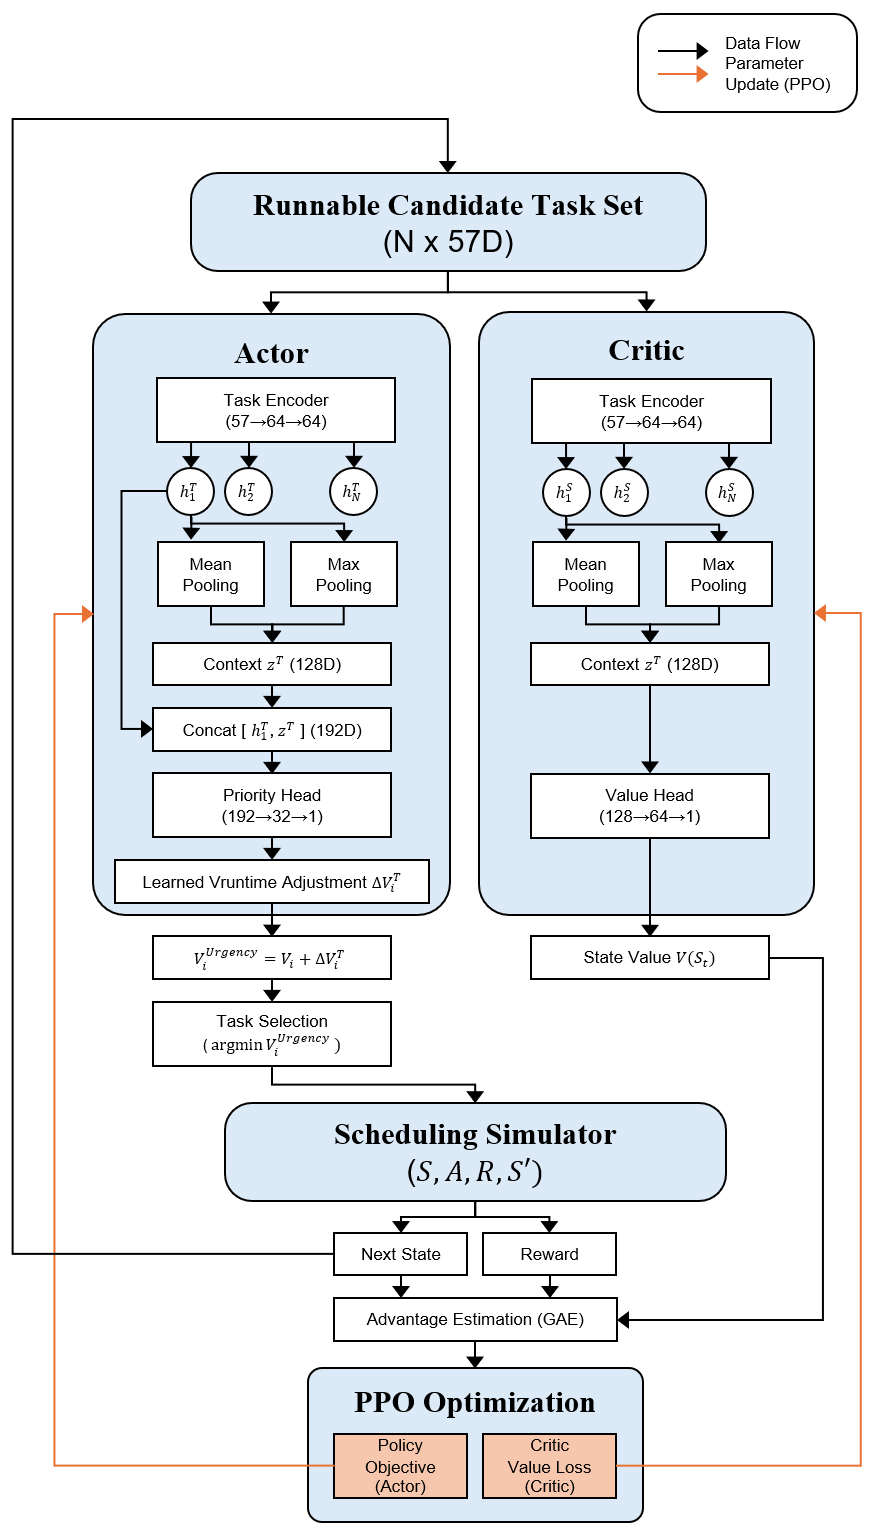
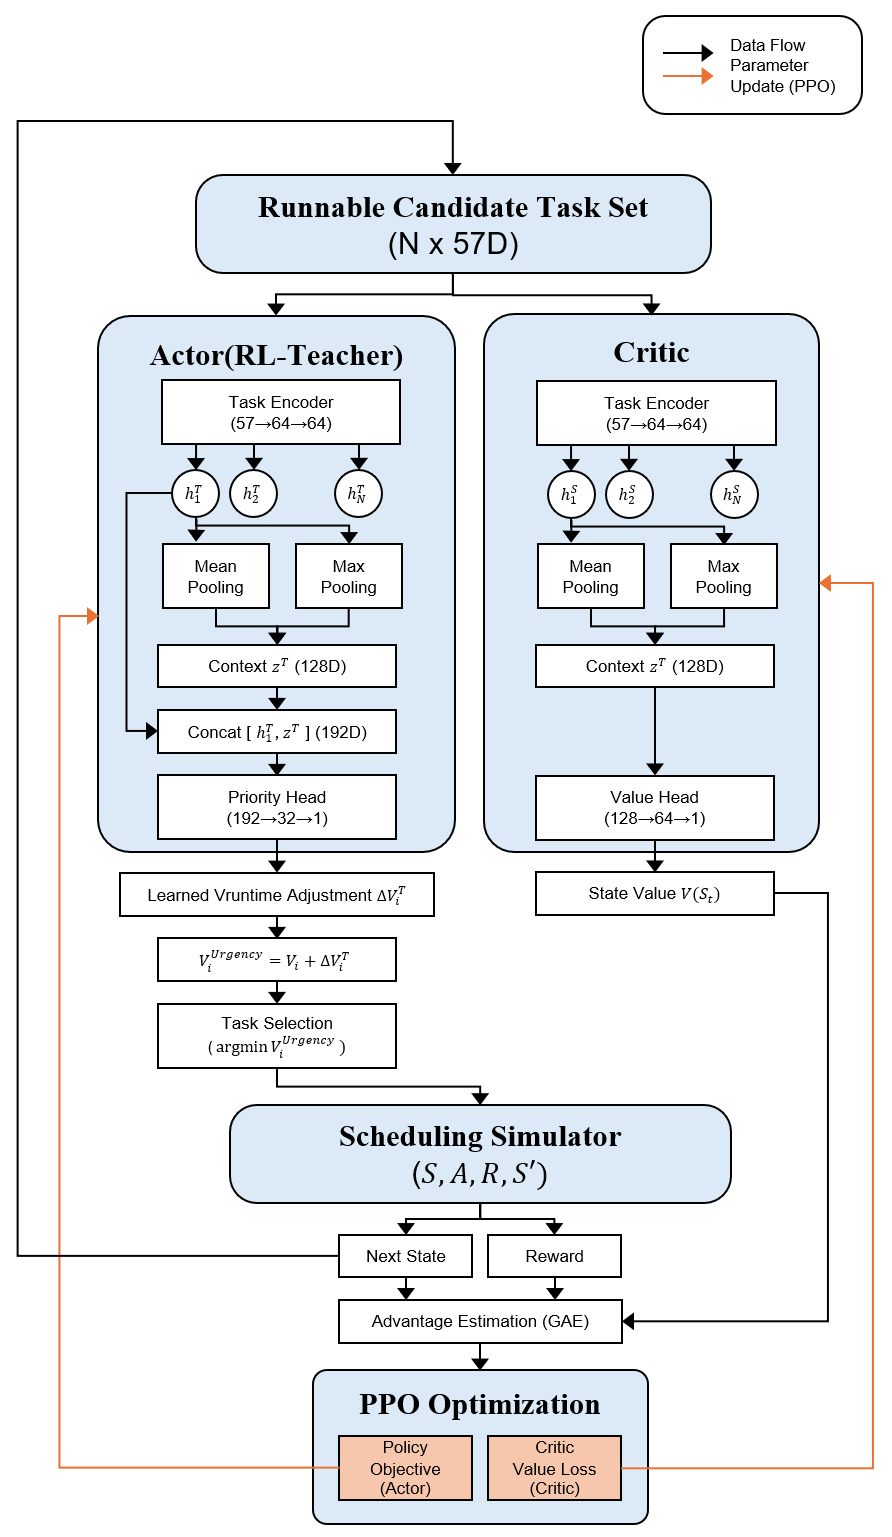
Teacher–Student Policy Distillation figure update

diff --git a/system_design.tex b/system_design.tex
@@ -450,13 +450,35 @@ Scheduling Decision $t$부터 다음 Scheduling Decision까지
 % - Figure RL Teacher 와 Student network 구조그리기
 \begin{figure}[H]
     \centering
-    \includegraphics[
-        width=0.8\linewidth,
-        height=0.6\textheight,
-        keepaspectratio
-    ]{Figures/ActorCritic.png}
-    \caption{Actor--Critic Architecture of RL Teacher}
-    \label{fig:actor_critic}
+
+    \begin{subfigure}[b]{0.48\linewidth}
+        \centering
+        \includegraphics[
+            width=\linewidth,
+            keepaspectratio
+        ]{Figures/ActorCritic.png}
+        \caption{Phase 1: Actor--Critic-based RL Teacher Training}
+        \label{fig:actor_critic}
+    \end{subfigure}
+    \hfill
+    \begin{subfigure}[b]{0.48\linewidth}
+        \centering
+        \includegraphics[
+            width=\linewidth,
+            keepaspectratio
+        ]{Figures/TeacherStudent.png}
+        \caption{Phase 2: Teacher--Student Policy Distillation}
+        \label{fig:teacher_student}
+    \end{subfigure}
+
+    \caption{RL-SchedExt의 2단계 Offline Learning Framework.
+    Phase 1에서는 RL Teacher가 Scheduling Simulator와의
+    상호작용을 통해 문맥 의존적(Context-dependent)
+    Scheduling Policy를 학습한다.
+    Phase 2에서는 Teacher의 Network Parameter를 고정한 상태에서
+    지식 증류(Knowledge Distillation)를 통해 학습된 Policy를
+    경량 Neural Student에 전달한다.}
+    \label{fig:teacher_student_architecture}
 \end{figure}
 
 \subsubsection{RL Teacher Policy}

diff --git a/evaluation.tex b/evaluation.tex
@@ -173,7 +173,8 @@ Fig.~\ref{fig:mindustry-macro}는 Mindustry 실행 환경에서 CFS와 RL-SchedE
     \includegraphics[width=\linewidth]{Figures/fig4_a_average_fps.png}
     \subcaption{average FPS ($\uparrow$)}
     \label{fig:mindustry-fps}
-  \end{subfigure}\hfill
+  \end{subfigure}
+  \hspace{2pt}%
   \begin{subfigure}[b]{0.575\linewidth}
     \centering
     \includegraphics[width=\linewidth]{Figures/fig4_b_frame_interval.png}
